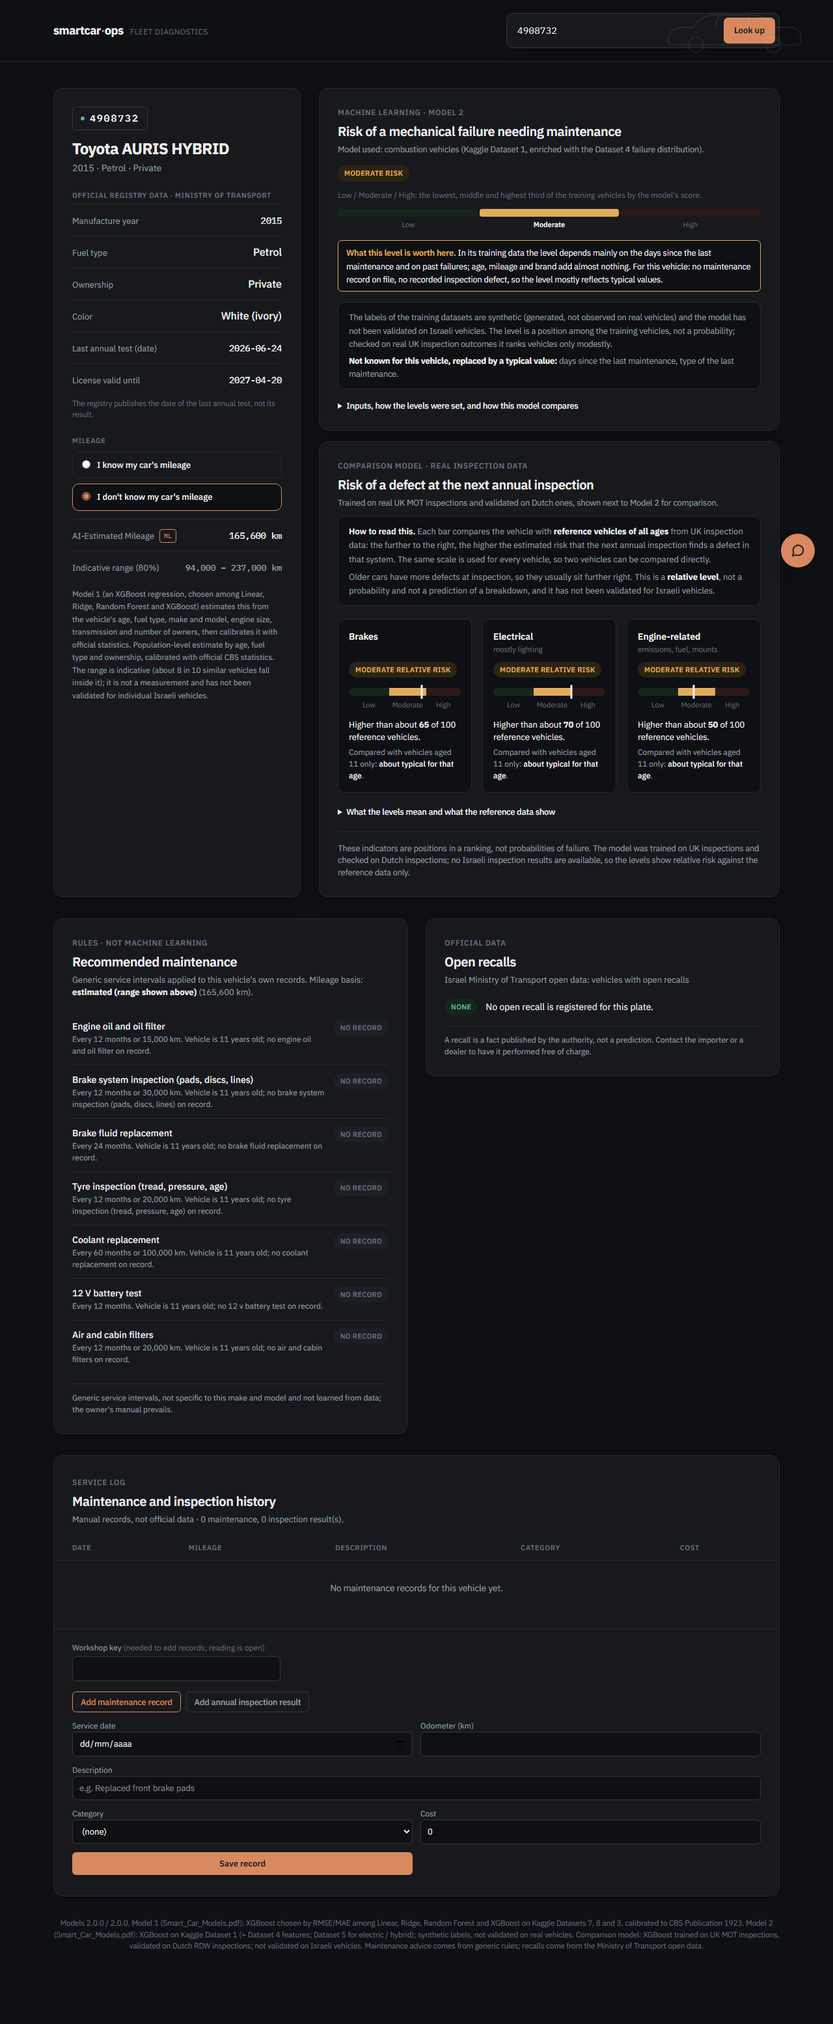
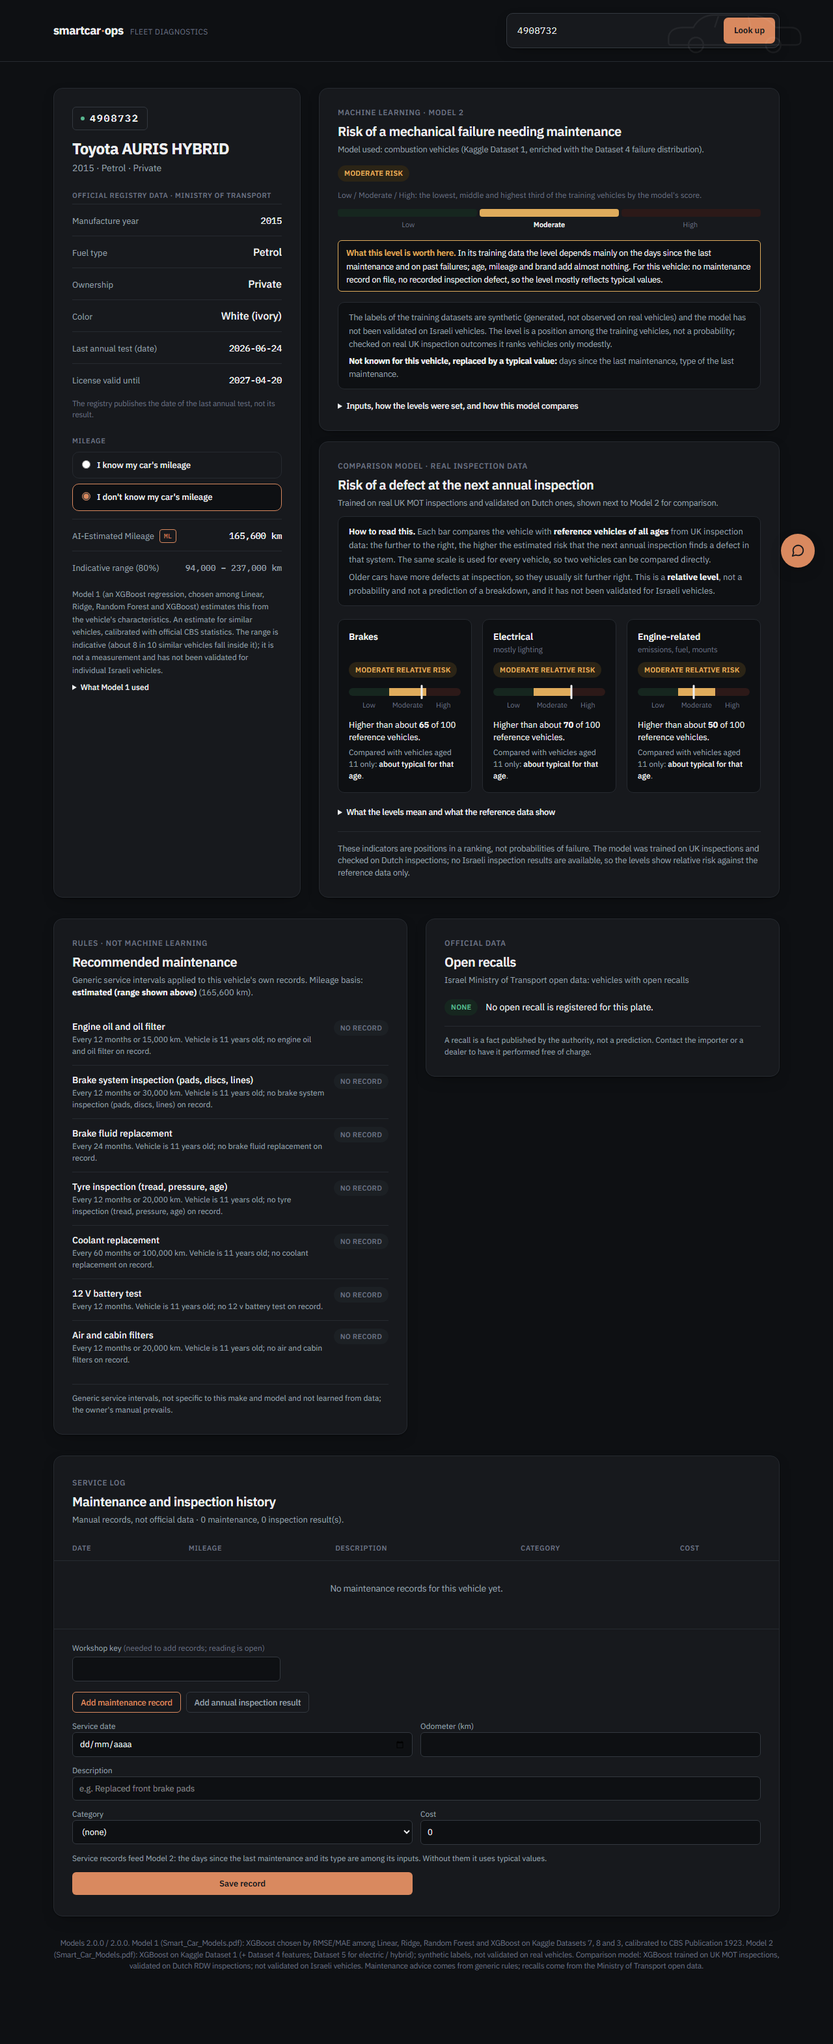
Dashboard aligned with the models of Smart_Car_Models.pdf
- Mileage card: what Model 1 used (age, fuel, make/model, engine size, transmission, owners) and where each value came from, plus its output before calibration
- Service log: records now explained as Model 2 inputs (days since maintenance, type, inspection defects as past failures)
- Comparison panel: 'no estimate' refers to the comparison model only; opening screen describes both models
- An implausible typed mileage is used by neither model (Model 2 takes the Model 1 estimate); notes name both models
- Tests: 135 pytest, e2e 1995 checks, visual 193/193

diff --git a/frontend/components/VehicleSpecCard.tsx b/frontend/components/VehicleSpecCard.tsx
@@ -21,6 +21,41 @@ function SpecRow({ label, value, tag }: { label: string; value: ReactNode; tag?:
 }
 
 const km = (n: number) => `${n.toLocaleString("en-US")} km`;
+
+function Model1Inputs({ mileage }: { mileage: MileageInfo }) {
+  const i = mileage.model_inputs ?? {};
+  if (!Object.keys(i).length) return null;
+  const official = String(i.engine_and_transmission_source ?? "");
+  const filled = "not in the official table: filled from similar cars (KNN, K=5)";
+  const engine = i.engine_cc ? `${Number(i.engine_cc).toLocaleString("en-US")} cc` : filled;
+  const gearbox = i.automatic === null || i.automatic === undefined ? filled : Number(i.automatic) >= 0.5 ? "Automatic" : "Manual";
+  const owners = i.owner_type && i.owner_type !== "Unknown" ? String(i.owner_type) : "Unknown (not in the ownership history)";
+  const [make, model] = String(i.make_model ?? "|").split("|");
+  return (
+    <details className="mt-2 text-[12px] text-ink-soft" data-testid="model1-inputs">
+      <summary className="cursor-pointer font-medium text-ink">What Model 1 used</summary>
+      <dl className="mt-2 grid grid-cols-[minmax(0,1fr)_minmax(0,1.4fr)] gap-x-3 gap-y-1">
+        <dt>Age, fuel</dt>
+        <dd className="text-right text-ink">{String(i.age)} years, {String(i.fuel).replace("lpg_cng", "LPG/CNG")} <span className="text-ink-faint">(registry)</span></dd>
+        <dt>Make and model</dt>
+        <dd className="text-right capitalize text-ink">{make} {model} <span className="normal-case text-ink-faint">(registry)</span></dd>
+        <dt>Engine size</dt>
+        <dd className="text-right text-ink">{engine}</dd>
+        <dt>Transmission</dt>
+        <dd className="text-right text-ink">{gearbox}</dd>
+        <dt>Number of owners</dt>
+        <dd className="text-right text-ink">{owners}</dd>
+        {mileage.model_raw_km !== null && (
+          <>
+            <dt>Model output before calibration</dt>
+            <dd className="text-right font-mono text-ink">{km(mileage.model_raw_km)}</dd>
+          </>
+        )}
+      </dl>
+      <p className="mt-1.5 text-ink-faint">Engine size and transmission: {official || "official model table"}. Owners: official ownership history of the Ministry of Transport.</p>
+    </details>
+  );
+}
 const mono = (children: ReactNode) => <span className="font-mono text-[13.5px]">{children}</span>;
 
 interface Props {
@@ -151,7 +186,7 @@ export function VehicleSpecCard({ vehicle, mileage, mode, onModeChange, onApply,
                   </p>
                   {mileage.user_reported_note && (
                     <p data-testid="user-reported-note" className="mt-1.5 text-[12px] leading-relaxed text-ink-soft">
-                      <strong className="font-semibold text-ink">Risk model:</strong> {mileage.user_reported_note}
+                      <strong className="font-semibold text-ink">Risk models:</strong> {mileage.user_reported_note}
                     </p>
                   )}
                 </div>
@@ -176,9 +211,9 @@ export function VehicleSpecCard({ vehicle, mileage, mode, onModeChange, onApply,
                 </p>
               )}
               <p className="mt-2 text-[12px] leading-relaxed text-ink-soft">
-                Model 1 (an XGBoost regression, chosen among Linear, Ridge, Random Forest and XGBoost) estimates this from the vehicle&apos;s age, fuel type, make and model,
-                engine size, transmission and number of owners, then calibrates it with official statistics. {mileage.label}
+                Model 1 (an XGBoost regression, chosen among Linear, Ridge, Random Forest and XGBoost) estimates this from the vehicle&apos;s characteristics. {mileage.label}
               </p>
+              <Model1Inputs mileage={mileage} />
             </div>
           )}
           {mileage.notes.length > 0 && mode === "estimate" && (

diff --git a/frontend/components/MaintenanceHistory.tsx b/frontend/components/MaintenanceHistory.tsx
@@ -89,7 +89,7 @@ export function MaintenanceHistory({ plate, maintenance, inspections, history, l
         <h2 className="text-xl font-semibold tracking-tight text-ink">Maintenance and inspection history</h2>
         <p className="mt-1 text-[13px] text-ink-soft">
           Manual records, not official data &middot; {history.maintenance_records} maintenance, {history.inspections} inspection result(s)
-          {history.history_used_by_model ? " · the last inspection result is used by the risk model" : ""}.
+          {history.history_used_by_model ? " · the last inspection result is used by the comparison model" : ""}.
         </p>
         {history.note && <p className="mt-1 text-[12px] text-warn">{history.note}</p>}
       </div>
@@ -181,6 +181,9 @@ export function MaintenanceHistory({ plate, maintenance, inspections, history, l
               <select name="category" className={inputClass}>{CATEGORIES.map((c) => <option key={c} value={c}>{c || "(none)"}</option>)}</select>
             </label>
             <label className="text-[12px] text-ink-soft">Cost<input name="cost" type="number" min={0} step="0.01" defaultValue={0} className={inputClass} /></label>
+            <p className="col-span-2 text-[12px] text-ink-soft max-[640px]:col-span-1">
+              Service records feed Model 2: the days since the last maintenance and its type are among its inputs. Without them it uses typical values.
+            </p>
             <button disabled={busy} type="submit" className="rounded-md bg-accent px-4 py-2 text-[13px] font-semibold text-accent-ink disabled:opacity-60">Save record</button>
           </form>
         ) : (
@@ -194,7 +197,8 @@ export function MaintenanceHistory({ plate, maintenance, inspections, history, l
               ))}
             </fieldset>
             <p className="col-span-2 text-[12px] text-ink-soft max-[640px]:col-span-1">
-              Only the result of the <strong>last annual inspection</strong> improves the risk estimate. A service or repair record is not equivalent and is not used as one.
+              Model 2 counts every inspection result with a defect as a past failure. The comparison model (real inspections) uses only the result of the <strong>last annual
+              inspection</strong>; a service record is not used as one.
             </p>
             <button disabled={busy} type="submit" className="rounded-md bg-accent px-4 py-2 text-[13px] font-semibold text-accent-ink disabled:opacity-60">Save inspection result</button>
           </form>

diff --git a/frontend/components/RiskPanel.tsx b/frontend/components/RiskPanel.tsx
@@ -107,13 +107,13 @@ export function RiskPanel({ risk }: { risk: InspectionRisk }) {
         </>
       ) : (
         <div className="mt-5 rounded-[10px] border border-dashed border-line-strong bg-paper px-5 py-6 text-[13.5px] text-ink-soft">
-          <p className="font-medium text-ink">No estimate for this vehicle</p>
+          <p className="font-medium text-ink">The comparison model has no estimate for this vehicle</p>
           <ul className="mt-1.5 list-disc pl-5">
             {risk.reasons.map((r) => (
               <li key={r}>{r}</li>
             ))}
           </ul>
-          <p className="mt-2">The model learns from petrol, diesel and hybrid cars that have already had annual inspections, between 3 and 20 years of age. For other vehicles no risk estimate is shown rather than guessing one. The estimated mileage, the recommended maintenance and the official recalls below still apply.</p>
+          <p className="mt-2">It learns from petrol, diesel and hybrid cars that have already had annual inspections, between 3 and 20 years of age; for other vehicles it shows nothing rather than guessing. Model 2 above, the estimated mileage, the recommended maintenance and the official recalls still apply.</p>
         </div>
       )}
 

diff --git a/frontend/app/page.tsx b/frontend/app/page.tsx
@@ -154,8 +154,8 @@ function EmptyState() {
     <div className="flex flex-col items-center gap-2 rounded-[14px] border border-dashed border-line py-24 text-center">
       <p className="text-base font-medium text-ink">Look up a vehicle to get started</p>
       <p className="max-w-sm text-sm text-ink-soft">
-        Enter a 7 or 8-digit Israeli license plate above to pull a live profile from the Ministry of Transport registry, with an estimated mileage, the estimated
-        inspection-defect risk, recommended maintenance and official recalls.
+        Enter a 7 or 8-digit Israeli license plate above to pull a live profile from the Ministry of Transport registry, with the estimated mileage (Model 1), the risk
+        of a mechanical failure needing maintenance (Model 2), a comparison model trained on real inspections, recommended maintenance and official recalls.
       </p>
     </div>
   );

diff --git a/scripts/visual_check.py b/scripts/visual_check.py
@@ -152,6 +152,11 @@ def main():
             record(tag("Model 2 (PDF): main risk panel with a level, the model used and no percentage"),
                    "Risk of a mechanical failure needing maintenance" in t and "MACHINE LEARNING · MODEL 2" in t.upper() and "Model used: combustion vehicles" in t
                    and any(f"{w} RISK" in t.upper() for w in ("LOW", "MODERATE", "HIGH")) and "%" not in page.js("document.querySelector('[data-testid=\"failure-risk\"] [role=\"img\"]').getAttribute('aria-label')"))
+            page.js("document.querySelector('[data-testid=\"model1-inputs\"]').open = true")
+            mi = page.js("document.querySelector('[data-testid=\"model1-inputs\"]').innerText")
+            record(tag("Model 1: shows the inputs it used and where they came from"), "What Model 1 used" in mi and "Engine size" in mi and "1,798 cc" in mi
+                   and "Automatic" in mi and "Number of owners" in mi and "before calibration" in mi, mi[:200])
+            page.shot(f"{mode}_01d_model1_inputs", "[data-testid='mileage-section']")
             record(tag("Model 2 (PDF): says what the level is worth when the service log is empty"), "What this level is worth here." in t and "no maintenance record on file" in t)
             record(tag("comparison panel: labelled as the model on real inspection data"), "COMPARISON MODEL · REAL INSPECTION DATA" in t.upper())
             page.shot(f"{mode}_01c_failure_risk", "[data-testid='failure-risk']")
@@ -180,7 +185,7 @@ def main():
             t = page.text()
             record(tag("covered/with records: measured odometer shown as MEASURED and the estimate kept for comparison"), "Recorded odometer" in t and "194,227 km" in t and "AI-Estimated Mileage (for comparison)" in t)
             record(tag("covered/with records: maintenance rows and inspection result listed"), "DEMO" in t and "Oil and filter change" in t and "ANNUAL INSPECTION RESULTS ON FILE" in t and "Manual records, not official data" in t)
-            record(tag("covered/with records: the model says the last inspection result is used"), "the last inspection result is used by the risk model" in t)
+            record(tag("covered/with records: the model says the last inspection result is used"), "the last inspection result is used by the comparison model" in t)
             record(tag("covered/with records: brake rule flags a missing service"), "NO RECORD, OVERDUE" in t)
             common_checks(page, tag("covered/with records"))
             page.shot(f"{mode}_03_records_full")
@@ -240,7 +245,7 @@ def main():
             wait(2500)
             t = section()
             record(tag("mileage: a valid value is shown as USER-REPORTED, not verified, not saved"), "User-Reported Mileage" in t and "USER-REPORTED" in t and "123,456 km" in t and "not been verified" in t and "not saved" in t)
-            record(tag("mileage: the model note says the risk model uses it as an approximation"), "Risk model:" in t and "Used by the risk model" in t and "approximation" in t)
+            record(tag("mileage: the model note says the risk model uses it as an approximation"), "Risk models:" in t and "Used by Model 2 as the mileage" in t and "approximation" in t)
             open_details()
             full = page.text()
             record(tag("mileage: the risk panel names the user-reported source"), "mileage reported by the user" in full and "Updating the results" not in full)
@@ -288,7 +293,7 @@ def main():
             # ---- 4. NOT covered: electric vehicle (Tesla)
             page.search("88328404")
             t = page.text()
-            record(tag("not covered/electric: says why and keeps the other panels"), "No estimate for this vehicle" in t and "fuel type" in t and "Recommended maintenance" in t and "Open recalls" in t and "AI-Estimated Mileage" in t)
+            record(tag("not covered/electric: says why and keeps the other panels"), "has no estimate for this vehicle" in t and "fuel type" in t and "Recommended maintenance" in t and "Open recalls" in t and "AI-Estimated Mileage" in t)
             record(tag("not covered/electric: no risk bars or levels invented"), "RELATIVE RISK" not in t and "Higher than about" not in t)
             record(tag("not covered/electric: mileage flagged low reliability (no electric training data)"), "Low reliability." in t and "electric vehicles" in t)
             record(tag("not covered/electric: no explanation of bars that do not exist"), "How to read this" not in t and "positions in a ranking" not in t)
@@ -299,7 +304,7 @@ def main():
             # ---- 5. NOT covered: new petrol car (age 0, first annual test not yet taken)
             page.search("62886204")
             t = page.text()
-            record(tag("not covered/new car: explained and no bars"), "No estimate for this vehicle" in t and "RELATIVE RISK" not in t and "first annual inspection" in t.lower())
+            record(tag("not covered/new car: explained and no bars"), "has no estimate for this vehicle" in t and "RELATIVE RISK" not in t and "first annual inspection" in t.lower())
             page.shot(f"{mode}_06_not_covered_new")
 
             # ---- 6. official recall (Toyota 2007)

diff --git a/backend/app/services/prediction.py b/backend/app/services/prediction.py
@@ -218,7 +218,7 @@ async def build_prediction(
         primary, source = measured, "measured"
     else:
         label = (
-            "Population-level estimate by age, fuel type and ownership, calibrated with official CBS statistics. "
+            "An estimate for similar vehicles, calibrated with official CBS statistics. "
             "The range is indicative (about 8 in 10 similar vehicles fall inside it); it is not a measurement and has not been validated for individual Israeli vehicles."
         )
         primary, source = est.km, "estimated"
@@ -260,9 +260,11 @@ async def build_prediction(
     user_note = None
     if user_km is not None:
         if odo_for_model:
-            user_note = "Not used by the risk model: it uses the odometer recorded at the last inspection instead, which is the value the model was trained on."
+            user_note = ("Used by Model 2 as the mileage. Not used by the comparison model: it uses the odometer recorded at the last inspection instead, "
+                         "which is the value it was trained on.")
         elif reported_implausible:
-            user_note = (f"Not used by the risk model: {user_km:,} km would mean more than {MAX_PLAUSIBLE_REPORTED_ANNUAL_KM:,} km per year for a {age}-year-old vehicle. "
+            user_note = (f"Not used by the risk models: {user_km:,} km would mean more than {MAX_PLAUSIBLE_REPORTED_ANNUAL_KM:,} km per year for a {age}-year-old vehicle "
+                         "(Model 2 uses the Model 1 estimate instead). "
                          "Please check the number.")
         else:
             odo_for_model, odometer_source = user_km, "user_reported"
@@ -270,10 +272,11 @@ async def build_prediction(
     result = models.risk.predict(rx)
     if user_km is not None and odometer_source == "user_reported":
         if result.covered:
-            user_note = ("Used by the risk model as the odometer at the last inspection (an approximation: it includes the driving since then). "
+            user_note = ("Used by Model 2 as the mileage, and by the comparison model as the odometer at the last inspection (an approximation: it includes the driving "
+                         "since then). "
                          "Its accuracy depends on what was typed; it is not verified.")
         else:
-            odometer_source, user_note = None, "Not used by the risk model: the model does not cover this vehicle."
+            odometer_source, user_note = None, "Used by Model 2 as the mileage. Not used by the comparison model: it does not cover this vehicle."
     mileage.user_reported_km = user_km
     mileage.user_reported_used_by_model2 = odometer_source == "user_reported" and user_km is not None
     mileage.user_reported_note = user_note
@@ -328,7 +331,9 @@ async def build_prediction(
             key = maintenance_rules.classify_record(latest_service.get("maintenance_category"), latest_service.get("description"))
             mtype = CATEGORY_TO_MAINTENANCE_TYPE.get(key or "other")
         sx = SpecRiskInputs(
-            vehicle_age=age, km=float(primary), km_source=source, fuel=features.fuel_key(profile), make=profile.make,
+            # an implausible typed value is not given to any model: Model 2 then takes the Model 1 estimate
+            vehicle_age=age, km=float(est.km if reported_implausible else primary), km_source="estimated" if reported_implausible else source,
+            fuel=features.fuel_key(profile), make=profile.make,
             days_since_last_maintenance=float((today - latest_service["service_date"]).days) if latest_service else None,
             failure_history=sum(1 for i in inspections if i["brakes"] or i["electrical"] or i["engine_emissions"] or i["other"]),
             maintenance_type=mtype,

diff --git a/backend/tests/test_mileage_selection.py b/backend/tests/test_mileage_selection.py
@@ -111,6 +111,7 @@ async def test_implausible_user_mileage_is_shown_but_not_given_to_model2(client)
     assert m["primary_source"] == "user_reported" and m["primary_km"] == 900_000                       # still shown, as reported
     assert not m["user_reported_used_by_model2"] and "Not used by the risk model" in m["user_reported_note"] and "per year" in m["user_reported_note"]
     assert r["variant"] == "cold" and not r["uses_measured_odometer"] and r["odometer_source"] is None
+    assert b["failure_risk"]["inputs"]["km"] == m["estimated_km"] and b["failure_risk"]["inputs"]["km_source"] == "estimated"    # nor by Model 2 (PDF)
     young = await predict(client, YOUNG, odometer_km=250_000)                                          # 83,000 km per year for a 3-year-old car
     assert not young["mileage"]["user_reported_used_by_model2"] and young["inspection_risk"]["variant"] == "cold"
     ok_young = await predict(client, YOUNG, odometer_km=45_000)

diff --git a/docs/MILEAGE_SELECTION.md b/docs/MILEAGE_SELECTION.md
@@ -26,7 +26,7 @@ Model 2 has four variants. The two **odometer variants** (`cold_odo`, `hist_odo`
 1. **The Model 1 estimate is never an input of Model 2** (unchanged architecture; the experiments of notebooks 04, 07 and 09 showed no gain). With the automatic option Model 2 runs on the registry data (and the stored inspection history, if any).
 2. **A recorded inspection odometer always wins.** If an inspection stored for the registry's last test carries an odometer, Model 2 uses it (it is exactly the trained quantity) and says so; a typed value is then shown but not used by the model.
 3. **Otherwise a plausible user-reported value is given to Model 2** as the odometer at the last inspection. It is an approximation: it is the *current* mileage, so it includes the driving since that inspection. The risk panel then states the source ("the mileage reported by the user: not verified, treated as the odometer at the last inspection") and the mileage block says the same.
-4. **Implausible values are not used:** more than 60,000 km per year of the vehicle's age (for example 900,000 km on an 11-year-old car). They are shown as reported, with the note "Not used by the risk model", because a typing mistake is far more likely than such a usage.
+4. **Implausible values are not used:** more than 60,000 km per year of the vehicle's age (for example 900,000 km on an 11-year-old car). They are shown as reported, with the note "Not used by the risk models" (Model 2 then takes the Model 1 estimate), because a typing mistake is far more likely than such a usage.
 5. If Model 2 does not cover the vehicle (electric, gas, under 3 or over 20 years), the value is shown but not used, and the note says so.
 6. The maintenance rules use a user-reported value like a current odometer, labelled "user-reported (not verified)" in the panel.
 

diff --git a/docs/TEST_REPORT.md b/docs/TEST_REPORT.md
@@ -24,7 +24,7 @@ The government HTTP services are replaced in `test_api.py` by recorded real regi
 
 ## 2b. Visual and functional check in a real browser (final round)
 
-`scripts/visual_check.py` drives headless **Chrome 157** through the DevTools protocol against the running stack at desktop (1280 x 900) and phone (390 x 844, mobile emulation) size, light and dark: 10 scenarios (empty, covered without records, covered with records and history, the refusal of the records form without the workshop key, chat, electric not covered, new car not covered, open recall, anomaly vehicle, unknown plate, invalid plate), **191 assertions**, horizontal-overflow and bar-geometry measurements, and 23 screenshots in `docs/screenshots/` that were looked at, not only asserted. Details, what was fixed after looking and what could not be verified: [FINAL_REPORT.md](FINAL_REPORT.md) section 2.
+`scripts/visual_check.py` drives headless **Chrome 157** through the DevTools protocol against the running stack at desktop (1280 x 900) and phone (390 x 844, mobile emulation) size, light and dark: 10 scenarios (empty, covered without records, covered with records and history, the refusal of the records form without the workshop key, chat, electric not covered, new car not covered, open recall, anomaly vehicle, unknown plate, invalid plate), **193 assertions**, horizontal-overflow and bar-geometry measurements, and 23 screenshots in `docs/screenshots/` that were looked at, not only asserted. Details, what was fixed after looking and what could not be verified: [FINAL_REPORT.md](FINAL_REPORT.md) section 2.
 
 ## 3. End-to-end with real Israeli plates (`scripts/e2e_live.py`)
 

diff --git a/docs/E2E_REPORT.md b/docs/E2E_REPORT.md
@@ -7,7 +7,7 @@ Run: 2026-11-21 against `http://localhost:8000` (live data.gov.il registry and r
 * security: record writes without / with a wrong workshop key are refused (checked), foreign CORS origin gets no permission
 * mileage selection: a typed mileage is user-reported (not a measurement, not stored), the Model 1 estimate is unchanged, invalid values are refused (checked)
 * plates with at least one open recall: 1
-* latency of `/api/v1/predict` (full request incl. live registry call): median 2.06 s cold, 54 ms with the 24 h cache
+* latency of `/api/v1/predict` (full request incl. live registry call): median 1.82 s cold, 34 ms with the 24 h cache
 * registry outages absorbed by the API's own retry and answered as 503, then retried by the test: 0
 * chat endpoint answered from: `deterministic_fallback`
 
